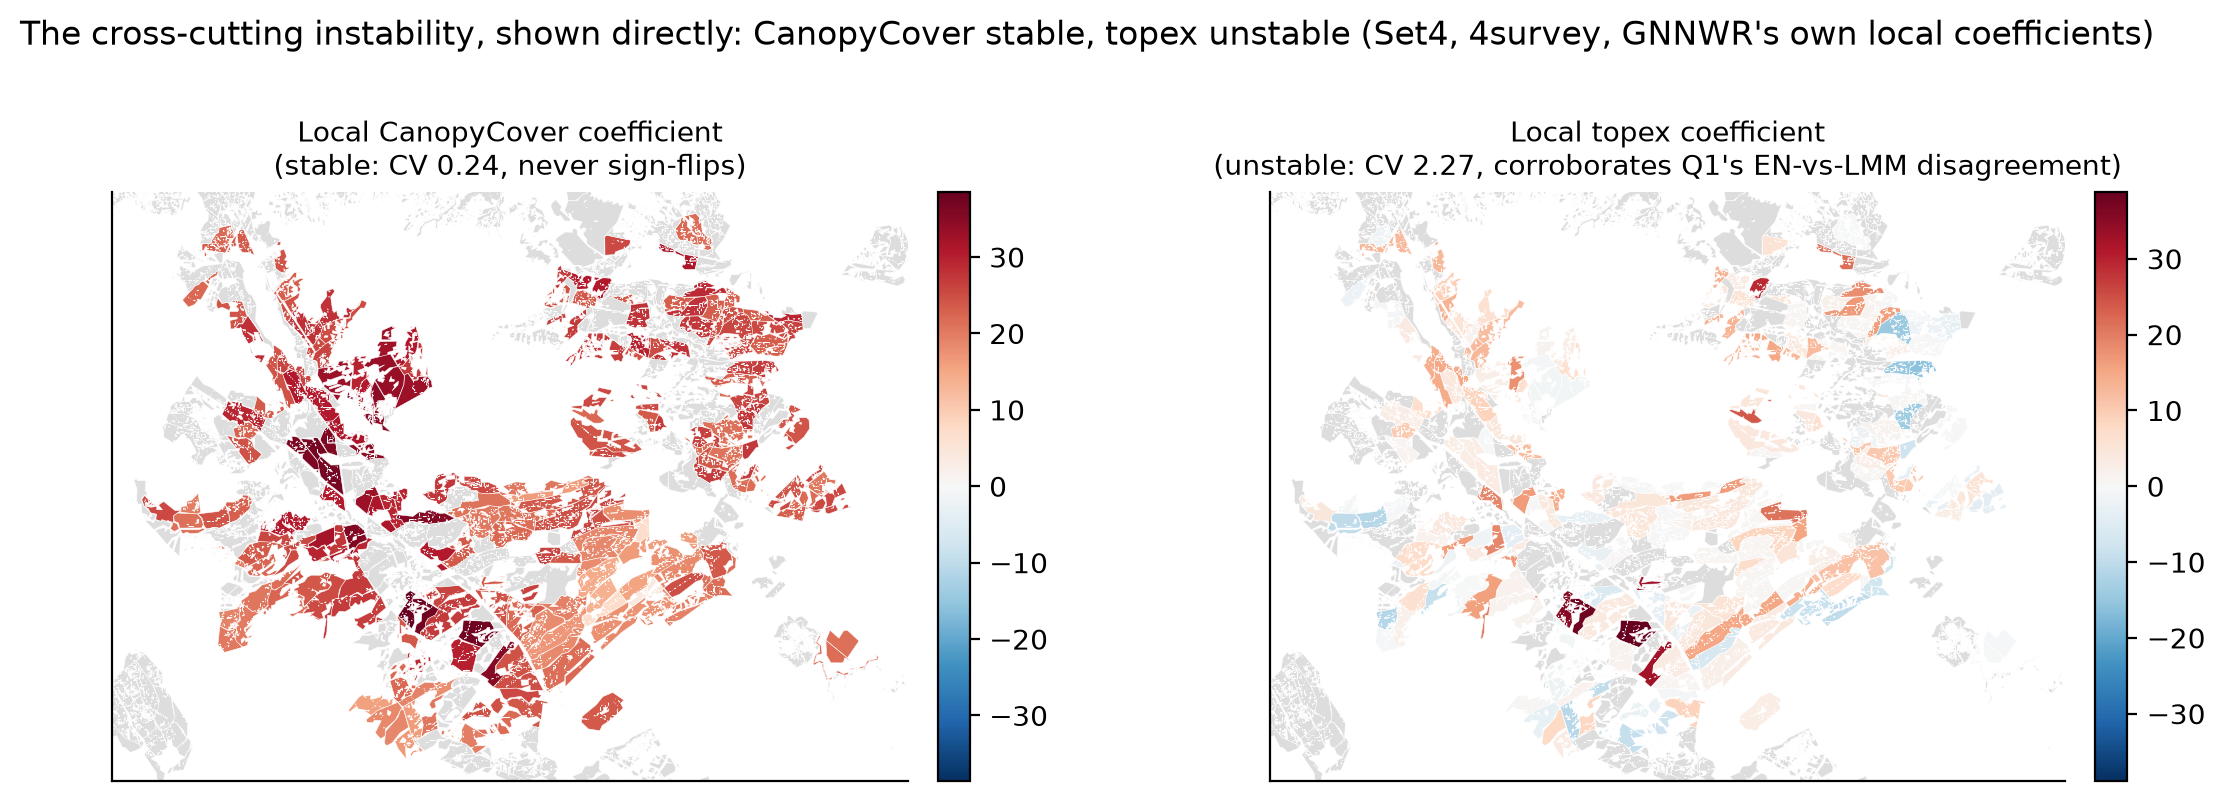
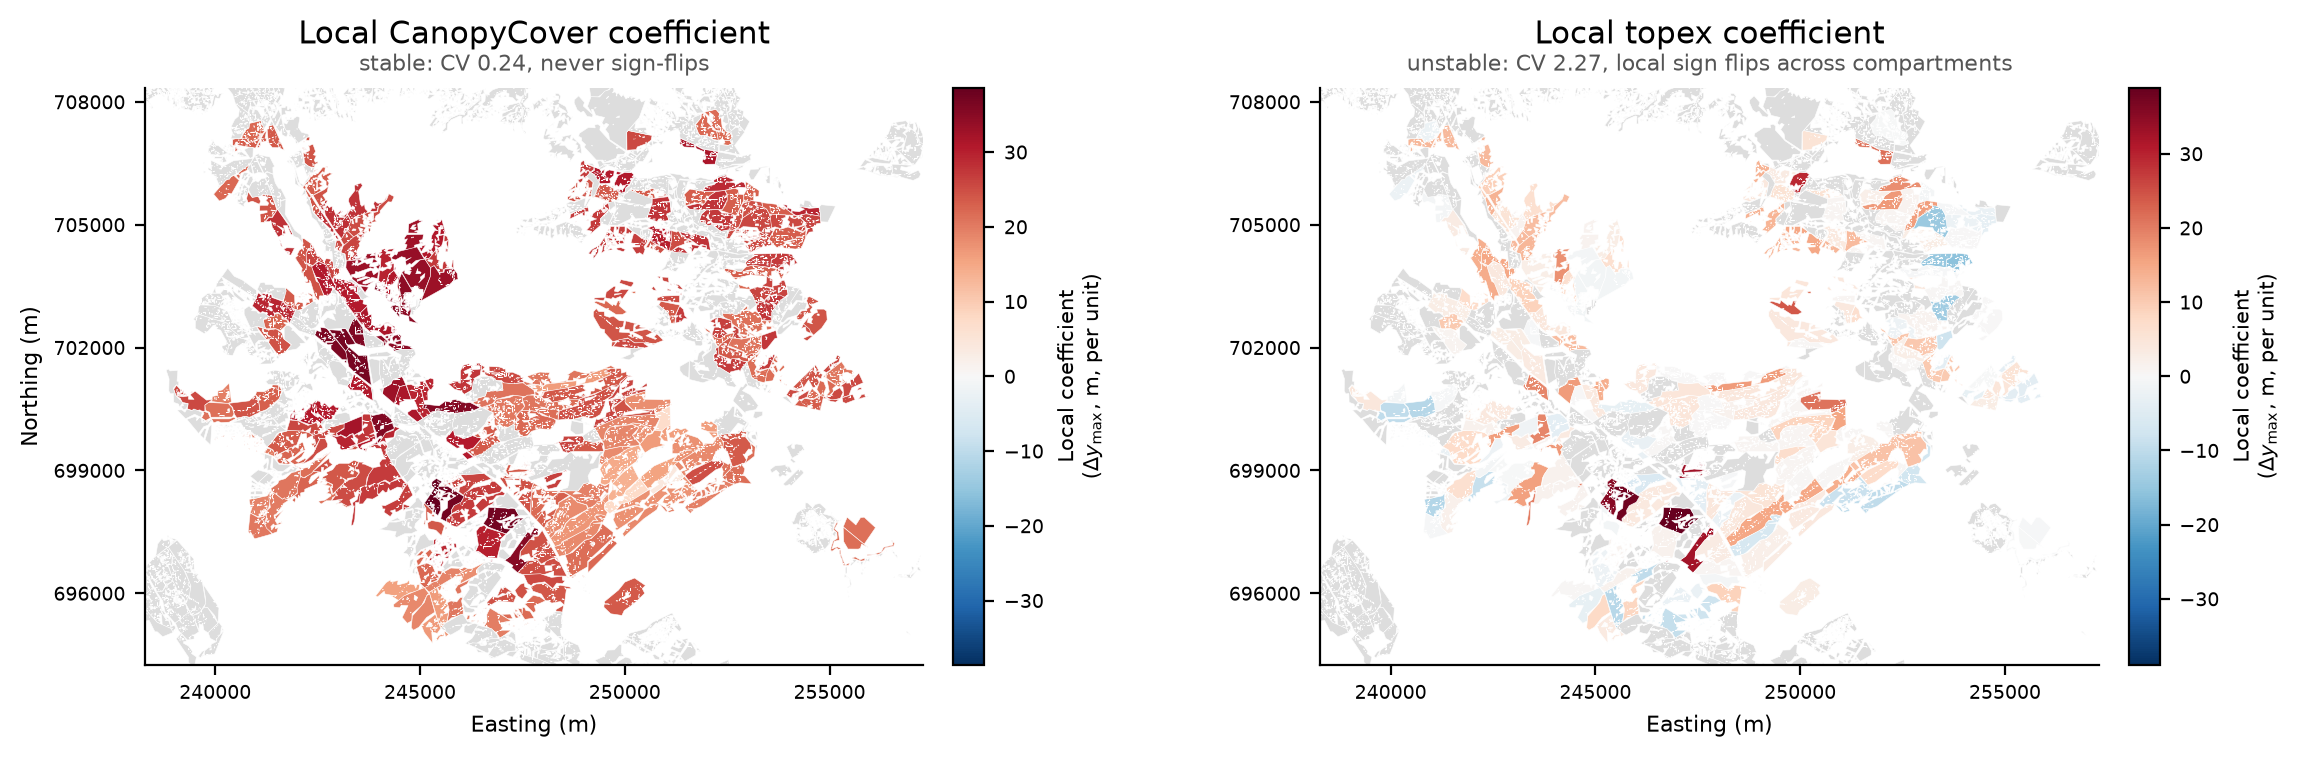
set 4 permutaiton check

diff --git a/temp_results_pinn/pinn_env_terrain_fix/run_set4_permutation_importance.py b/temp_results_pinn/pinn_env_terrain_fix/run_set4_permutation_importance.py
@@ -1,0 +1,189 @@
+# Permutation importance for PINN-k's terrain sub-network, trained on Set4 instead of Set3 --
+# answers "why doesn't the broader feature set (Set4) help over the curated Set3?"
+# (temp_results_pinn/RESULTS_TABLE.md, section 5: Set4 R2=0.6196 vs. Set3's 0.6180 for PINN-k,
+# statistically flat, but Set4 measurably hurts plain PINN, 0.618 vs. 0.631).
+#
+# Note Set4 is NOT simply Set3 plus extra features -- it DROPS elevation (present in Set3) and
+# ADDS four new features: dist_to_scpt_boundary, tas_mean, chelsa_gdd5_degc,
+# cpmt_compactness_ratio. This script flags each feature as "shared with Set3" or "new in Set4"
+# so the analysis reads correctly -- checking whether the NEW features specifically get near-zero
+# importance (harmless but useless, explaining the flat/negative result) or real-but-noisy
+# importance (actively unhelpful).
+#
+# Same method as run_terrain_permutation_importance.py (Set3 version): shuffle one terrain
+# feature at a time, measure how much y_max_pred/k_pred moves. No checkpoint exists for Set4
+# (never saved), so this retrains fresh and keeps the model in memory.
+#
+# Run (fold 0, local): PYTHONPATH=. python temp_results_pinn/pinn_env_terrain_fix/run_set4_permutation_importance.py
+# Run (any fold): PYTHONPATH=. python temp_results_pinn/pinn_env_terrain_fix/run_set4_permutation_importance.py --fold-index 1
+#
+# Saves a summary JSON per fold to
+# temp_results_pinn/outputs/CORRECTED_2026-08-23_mechanism_checks/set4_permutation_importance/fold_<i>/summary.json
+
+import argparse
+import json
+import sys
+import time
+from pathlib import Path
+
+import numpy as np
+import torch
+
+sys.path.insert(0, str(Path(__file__).resolve().parents[2]))
+
+from models.common.saving import load_cr_params
+from models.common.splits import SPLIT_SEED
+from models.common.torch_data import (
+    ENV_TERRAIN_FEATURE_SETS,
+    build_pair_terrain_tensor,
+    build_pair_tensors,
+    build_tensors,
+    build_terrain_tensor,
+    encode_thinning_status,
+    fit_scalers,
+    fit_terrain_scaler,
+    load_split_table_with_terrain,
+    load_trajectory_pairs,
+    select_device,
+)
+from temp_results_pinn.pinn_env_terrain_fix.pinn_env_terrain_k_fix import fit, predict_y_max, predict_k
+
+FEATURE_SET = "nested_set4_gated_all_vif"
+SET3_FEATURE_SET = "nested_set3_gated_terrain_wind_vif"  # for the shared-vs-new flag only
+COHORT = "4survey"
+SPLIT_TYPE = "spatial_block_kfold"
+N_FOLDS = 5
+SEED = 42
+N_PERMUTATION_REPEATS = 10
+OUTPUT_DIR = Path(__file__).resolve().parents[1] / "outputs" / "CORRECTED_2026-08-23_mechanism_checks" / "set4_permutation_importance"
+
+
+def main():
+    parser = argparse.ArgumentParser(description=__doc__)
+    parser.add_argument("--fold-index", type=int, default=0, help="0-4, which spatial_block_kfold fold to hold out as test.")
+    args = parser.parse_args()
+    fold_index = args.fold_index
+
+    device = select_device()
+    print(f"Device: {device}  Fold: {fold_index}  Feature set: {FEATURE_SET}")
+
+    fold_dir = OUTPUT_DIR / f"fold_{fold_index}"
+    fold_dir.mkdir(parents=True, exist_ok=True)
+    summary_path = fold_dir / "summary.json"
+    if summary_path.exists():
+        print(f"{summary_path} already exists -- delete it first to redo this fold. Exiting without retraining.")
+        return
+
+    feature_columns = ENV_TERRAIN_FEATURE_SETS[FEATURE_SET]
+    set3_columns = set(ENV_TERRAIN_FEATURE_SETS[SET3_FEATURE_SET])
+    print(f"Terrain features ({len(feature_columns)}): {feature_columns}")
+    new_in_set4 = [f for f in feature_columns if f not in set3_columns]
+    print(f"New in Set4 (not in Set3): {new_in_set4}")
+
+    cr_params = load_cr_params(COHORT, SPLIT_TYPE, split_seed=SPLIT_SEED, held_out_fold=fold_index)
+    split_df = load_split_table_with_terrain(
+        COHORT, SPLIT_TYPE, feature_columns, split_seed=SPLIT_SEED,
+        k_folds=N_FOLDS, held_out_fold=fold_index,
+    )
+    train_df = split_df[split_df["split"] == "train"]
+    val_df = split_df[split_df["split"] == "val"]
+    test_df = split_df[split_df["split"] == "test"]
+    print(f"train={len(train_df):,}  val={len(val_df):,}  test={len(test_df):,}")
+
+    pairs_df = load_trajectory_pairs(COHORT, split_df)
+
+    scaler_age, scaler_other_features, scaler_height = fit_scalers(train_df)
+    scaler_terrain = fit_terrain_scaler(train_df, feature_columns)
+    encoded_column_names = encode_thinning_status(train_df).columns.tolist()
+
+    age_train, other_train, target_train = build_tensors(
+        train_df, scaler_age, scaler_other_features, scaler_height, encoded_column_names, device)
+    age_val, other_val, target_val = build_tensors(
+        val_df, scaler_age, scaler_other_features, scaler_height, encoded_column_names, device)
+    age_test, other_test, target_test = build_tensors(
+        test_df, scaler_age, scaler_other_features, scaler_height, encoded_column_names, device)
+    terrain_train = build_terrain_tensor(train_df, scaler_terrain, feature_columns, device)
+    terrain_val = build_terrain_tensor(val_df, scaler_terrain, feature_columns, device)
+    terrain_test = build_terrain_tensor(test_df, scaler_terrain, feature_columns, device)
+
+    pair_tensors = build_pair_tensors(
+        pairs_df, scaler_age, scaler_other_features, scaler_height, encoded_column_names, device)
+    terrain_pairs = build_pair_terrain_tensor(pairs_df, scaler_terrain, feature_columns, device, COHORT)
+
+    n_other_features = other_train.shape[1]
+    n_terrain_features = terrain_train.shape[1]
+
+    print("\nTraining PINN-k, Set4, trusted config (lr=0.0001, weight_decay=1e-5, "
+          "batch_size=256, physics_weight=1.0)...")
+    t0 = time.time()
+    model, _, history = fit(
+        age_train, other_train, terrain_train, target_train,
+        age_val, other_val, terrain_val, target_val,
+        pair_tensors, terrain_pairs, cr_params, scaler_age, scaler_height,
+        n_other_features, n_terrain_features, device, SEED,
+        max_epochs=500, early_stopping_patience=40,
+    )
+    print(f"Trained {len(history)} epochs in {time.time()-t0:.0f}s")
+
+    baseline_y_max = predict_y_max(model, terrain_test, cr_params["y_max"]).cpu().numpy().flatten()
+    baseline_k = predict_k(model, terrain_test, cr_params["k"]).cpu().numpy().flatten()
+
+    print(f"\nBaseline y_max_pred: mean={baseline_y_max.mean():.3f}  std={baseline_y_max.std():.3f}")
+    print(f"Baseline k_pred: mean={baseline_k.mean():.5f}  std={baseline_k.std():.5f}")
+
+    rng = np.random.default_rng(SEED)
+    n_rows = terrain_test.shape[0]
+
+    results = []
+    for feature_idx, feature_name in enumerate(feature_columns):
+        y_max_shifts = []
+        k_shifts = []
+        for _ in range(N_PERMUTATION_REPEATS):
+            permuted_terrain = terrain_test.clone()
+            shuffled_row_order = rng.permutation(n_rows)
+            permuted_terrain[:, feature_idx] = terrain_test[shuffled_row_order, feature_idx]
+
+            permuted_y_max = predict_y_max(model, permuted_terrain, cr_params["y_max"]).cpu().numpy().flatten()
+            permuted_k = predict_k(model, permuted_terrain, cr_params["k"]).cpu().numpy().flatten()
+
+            y_max_shifts.append(np.mean(np.abs(permuted_y_max - baseline_y_max)))
+            k_shifts.append(np.mean(np.abs(permuted_k - baseline_k)))
+
+        results.append({
+            "feature": feature_name,
+            "new_in_set4": feature_name in new_in_set4,
+            "y_max_importance": float(np.mean(y_max_shifts)),
+            "k_importance": float(np.mean(k_shifts)),
+        })
+
+    total_y_max_importance = sum(r["y_max_importance"] for r in results)
+    total_k_importance = sum(r["k_importance"] for r in results)
+
+    results_sorted_ymax = sorted(results, key=lambda r: -r["y_max_importance"])
+    print(f"\n{'Feature':>25} | {'New?':>5} | {'y_max importance':>18} | {'% of total':>10} | {'k importance':>14} | {'% of total':>10}")
+    print("-" * 100)
+    for r in results_sorted_ymax:
+        y_max_pct = 100 * r["y_max_importance"] / total_y_max_importance if total_y_max_importance > 0 else 0
+        k_pct = 100 * r["k_importance"] / total_k_importance if total_k_importance > 0 else 0
+        new_flag = "NEW" if r["new_in_set4"] else ""
+        print(f"{r['feature']:>25} | {new_flag:>5} | {r['y_max_importance']:>18.4f} | {y_max_pct:>9.1f}% | {r['k_importance']:>14.6f} | {k_pct:>9.1f}%")
+
+    new_feature_total_share = sum(100 * r["y_max_importance"] / total_y_max_importance for r in results if r["new_in_set4"])
+    print(f"\nThe {len(new_in_set4)} features new to Set4 collectively carry {new_feature_total_share:.1f}% of total y_max importance")
+    print(f"(if this is roughly proportional to their share of all {len(feature_columns)} features, "
+          f"{100*len(new_in_set4)/len(feature_columns):.1f}%, they're not doing anything special either way)")
+
+    with open(summary_path, "w") as f:
+        json.dump({
+            "fold_index": fold_index, "feature_set": FEATURE_SET,
+            "new_in_set4": new_in_set4,
+            "baseline_y_max_mean": float(baseline_y_max.mean()), "baseline_y_max_std": float(baseline_y_max.std()),
+            "baseline_k_mean": float(baseline_k.mean()), "baseline_k_std": float(baseline_k.std()),
+            "new_feature_total_ymax_share_pct": new_feature_total_share,
+            "per_feature_importance": results,
+        }, f, indent=2)
+    print(f"\nSaved -> {summary_path}")
+
+
+if __name__ == "__main__":
+    main()

diff --git a/documentation/refocus_draft/working_results/results_q2_22_08_0214.tex b/documentation/refocus_draft/working_results/results_q2_22_08_0214.tex
@@ -52,14 +52,14 @@ parentheses, 5 folds). All three methods collapse to the same near-zero floor wi
 CanopyCover, and all three recover almost the same share of their score from CanopyCover
 alone: Elastic Net $\sim$83\% ((0.207$-$0.042)/(0.240$-$0.042)), XGBoost $\sim$79\%
 ((0.210$-$0.061)/(0.250$-$0.061)), GNNWR $\sim$82\% ((0.249$-$0.049)/(0.294$-$0.049)) -- this
-is not a GNNWR-specific quirk, all three methods tell the same story. Source:
-live-recomputed from
-\texttt{outputs/spatial\_block\_kfold/rq3\_en\_xgb\_nested\_set4\_gated\_all\_vif/4survey/metrics.csv},
-\texttt{.../rq3\_en\_xgb\_nested\_set4\_no\_canopycover\_ablation.json},
-\texttt{.../rq3\_en\_xgb\_nested\_set4\_canopycover\_only\_ablation.json}, and
-\texttt{outputs/growth\_curve\_attribution/gnnwr/gnnwr\_nested\_set4\_*\_4survey\_reffull\_fold\{0-4\}of5\_test\_predictions.csv}.}}
+is not a GNNWR-specific quirk, all three methods tell the same story.}}
 \label{tab:results-q2-ablation}
 \end{table}
+% Source (internal tracking only, not for the caption): live-recomputed from
+% outputs/spatial_block_kfold/rq3_en_xgb_nested_set4_gated_all_vif/4survey/metrics.csv,
+% .../rq3_en_xgb_nested_set4_no_canopycover_ablation.json,
+% .../rq3_en_xgb_nested_set4_canopycover_only_ablation.json, and
+% outputs/growth_curve_attribution/gnnwr/gnnwr_nested_set4_*_4survey_reffull_fold{0-4}of5_test_predictions.csv
 
 \textbf{Part of the reason so little else shows up is that Q2's own target is noisy.} The curve-fitting method keeps each plot's growth rate fixed to its yield class, and only fits the ceiling. If a plot's real growth rate does not match that assumption, the mismatch does not vanish -- it leaks into the ceiling number instead. Figure~\ref{fig:q2-example-plot} shows this on one real plot. Plot 309770's own fitted ceiling is 43.0m, well above its yield-class benchmark of 32.8m -- a gap of $+10.2$m. XGBoost predicts $+12.4$m for the same plot. The shaded area shows this gap over the years we actually measured, not just a guess at the far end. CanopyCover pulls this one prediction down, even though it usually pushes predictions up -- the direction is not fixed for every plot. A second plot (Appendix Figure~\ref{fig:q2-example-plot-typical}) shows this is not a cherry-picked case: it was picked because its error sits at the middle of the pack, and here the model only explains about half the gap, with no single variable standing out. This noisy target is why so little beyond CanopyCover comes through clearly.
 
@@ -70,7 +70,7 @@ live-recomputed from
 % Table now lives in appendix_results.tex (\S~\ref{app:results-q2}), not duplicated here --
 % see Table~\ref{tab:results-q2-reliability} there. Referenced by \ref{} above as normal.
 
-\fig{\label{fig:q2-stability-map}\textbf{Q2, Figure 2 -- the cross-cutting instability, shown directly.} Two compartment-mean maps of GNNWR's own local coefficients (Set4, 4-survey, pooled 5 folds), same colour scale. Left: CanopyCover (never flips sign). Right: topex (flips sign in over a quarter of compartments) -- the direct visual for Table~\ref{tab:results-q2-reliability}'s cross-chapter finding. File: \texttt{figures/fig\_results/q2\_topex\_vs\_canopycover\_stability.png}.}
+\fig{\label{fig:q2-stability-map}\textbf{Q2, Figure 2 -- the cross-cutting instability, shown directly.} Two compartment-mean maps of GNNWR's own local coefficients (Set4, 4-survey, pooled 5 folds), same colour scale. The colour is GNNWR's own local coefficient for that variable at that place -- how much $\Delta y_{\max}$ (m) changes per unit increase in the variable there -- not a direct plot of Q1's EN-vs-LMM disagreement, which is a separate, whole-forest-level computation. Left: CanopyCover (never flips sign). Right: topex (flips sign in over a quarter of compartments). The link to Q1 is explained in the main text, not shown directly on the map: a coefficient that genuinely varies by place, as topex's does here, is exactly what would make a single whole-forest number (EN's or LMM's) hard to pin down consistently. File: \texttt{figures/fig\_results/q2\_topex\_vs\_canopycover\_stability.png}.}
 
 A few smaller points, stated briefly. Some terrain variables (windward\_topex, slope\_degrees) show a real curved link to the target -- rising, then flattening out. GNNWR can only draw straight lines, so it cannot fully use this signal even where it is real. The effect is small either way: CanopyCover already carries 80--90\% of the model's power. A small group of plots (under 1\% of the 4-survey cohort, 266 of 56,526) show an extreme version of the same rate-and-ceiling mixing described above. This is the tail of the main finding, not a separate one, so it is not covered in depth here (full diagnostics are preserved for Appendix~\ref{app:flagged-plot-split}). As planned, we also ran all three models on the six-survey cohort as a check, not as the main test. None found any real signal ($R^2\approx0$ for all three), which lines up with its much smaller number of compartments (47 vs.\ 231). We did not dig into this further, since six-survey was never the main focus.
 

diff --git a/documentation/refocus_draft/methodology/22nd_methodology_redraft.tex b/documentation/refocus_draft/methodology/22nd_methodology_redraft.tex
@@ -122,6 +122,13 @@ Parameters ($\boldsymbol{\beta}$ and $\sigma_u^2$) are fitted using restricted m
 Two concerns motivate four sensitivity checks; first, because canopy cover and top height come from the same LiDAR flights, a strong canopy-cover effect might reflect measurement overlap rather than true stand structure. We test this through three steps: (1) refitting Set~4 without canopy cover to assess the change in $R^2$; (2) checking direct correlations between canopy cover and each target; and (3) recalculating SHAP values without canopy cover to see if other predictors absorb its explanatory role.
 
 Second, differences in terrain coefficients (such as slope and TOPEX) between Elastic Net and the mixed-effects model could reflect local, compartment-specific effects that global models miss. We test this with a fourth check: (4) measuring how much variance in slope and TOPEX occurs between compartments versus within them, identifying whether their spatial structure masks local relationships.
+% TODO (2026-08-23): Results uses VIF (variance inflation factor) and ICC (intraclass
+% correlation coefficient) as part of this check's write-up. VIF gets spelled out on first
+% use in Results; ICC never does, anywhere. Neither term is defined here in Methodology at
+% all -- checked both this file and the canonical 20th_1_31_pm_audited.tex. Revisit once
+% Results is finalised: either define both terms here (natural home, since this is where
+% check (4) itself is described) and let Results just use the acronyms, or confirm Results
+% will keep defining them inline and leave Methodology as-is.
 
 Elastic Net coefficient signs and selection, mixed-model fixed-effect signs, and XGBoost mean $|$SHAP$|$ rankings are compared for agreement on which variables matter and in what direction -- their raw magnitudes are not directly comparable, since each reflects a different kind of model, and mean $|$SHAP$|$ itself carries no sign. This comparison provides three complementary perspectives on growth drivers; agreement across all three indicates an association is less dependent on model structure, not that it is causal. Residual Moran's $I$ tests for remaining spatial clustering (Section~\ref{sec:eval-robustness}).
 

diff --git a/documentation/refocus_draft/working_results/appendix_results.tex b/documentation/refocus_draft/working_results/appendix_results.tex
@@ -103,13 +103,13 @@ global Elastic Net model agree with a linear mixed-effects model on a variable's
 coefficient, Set4, 4-survey) and Q2 (does GNNWR's own local coefficient keep the same sign
 across compartments, Set4, 4-survey, pooled 5 folds, $n=231$ compartments). These are two
 genuinely different tests that happen to agree on topex and slope\_degrees -- not the same
-measurement repeated. Q1 columns live-recomputed from
-\texttt{outputs/spatial\_block\_kfold/rq2\_attribution\_nested\_set4\_gated\_all\_vif/4survey/fold\_\{0-4\}/}
-(\texttt{elastic\_net\_coefficients.csv}, \texttt{nlme\_fixed\_effects.json}); Q2 column
-live-recomputed from GNNWR's own saved per-plot \texttt{coef\_*} columns, same fold files as
-Table~\ref{tab:results-q2-ablation}.}}
+measurement repeated.}}
 \label{tab:results-q2-reliability}
 \end{table}
+% Source (internal tracking only, not for the caption): Q1 columns live-recomputed from
+% outputs/spatial_block_kfold/rq2_attribution_nested_set4_gated_all_vif/4survey/fold_{0-4}/
+% (elastic_net_coefficients.csv, nlme_fixed_effects.json); Q2 column live-recomputed from
+% GNNWR's own saved per-plot coef_* columns, same fold files as Table~\ref{tab:results-q2-ablation}.
 
 \subsection{Flagged-plot split diagnostics}
 \label{app:flagged-plot-split}
